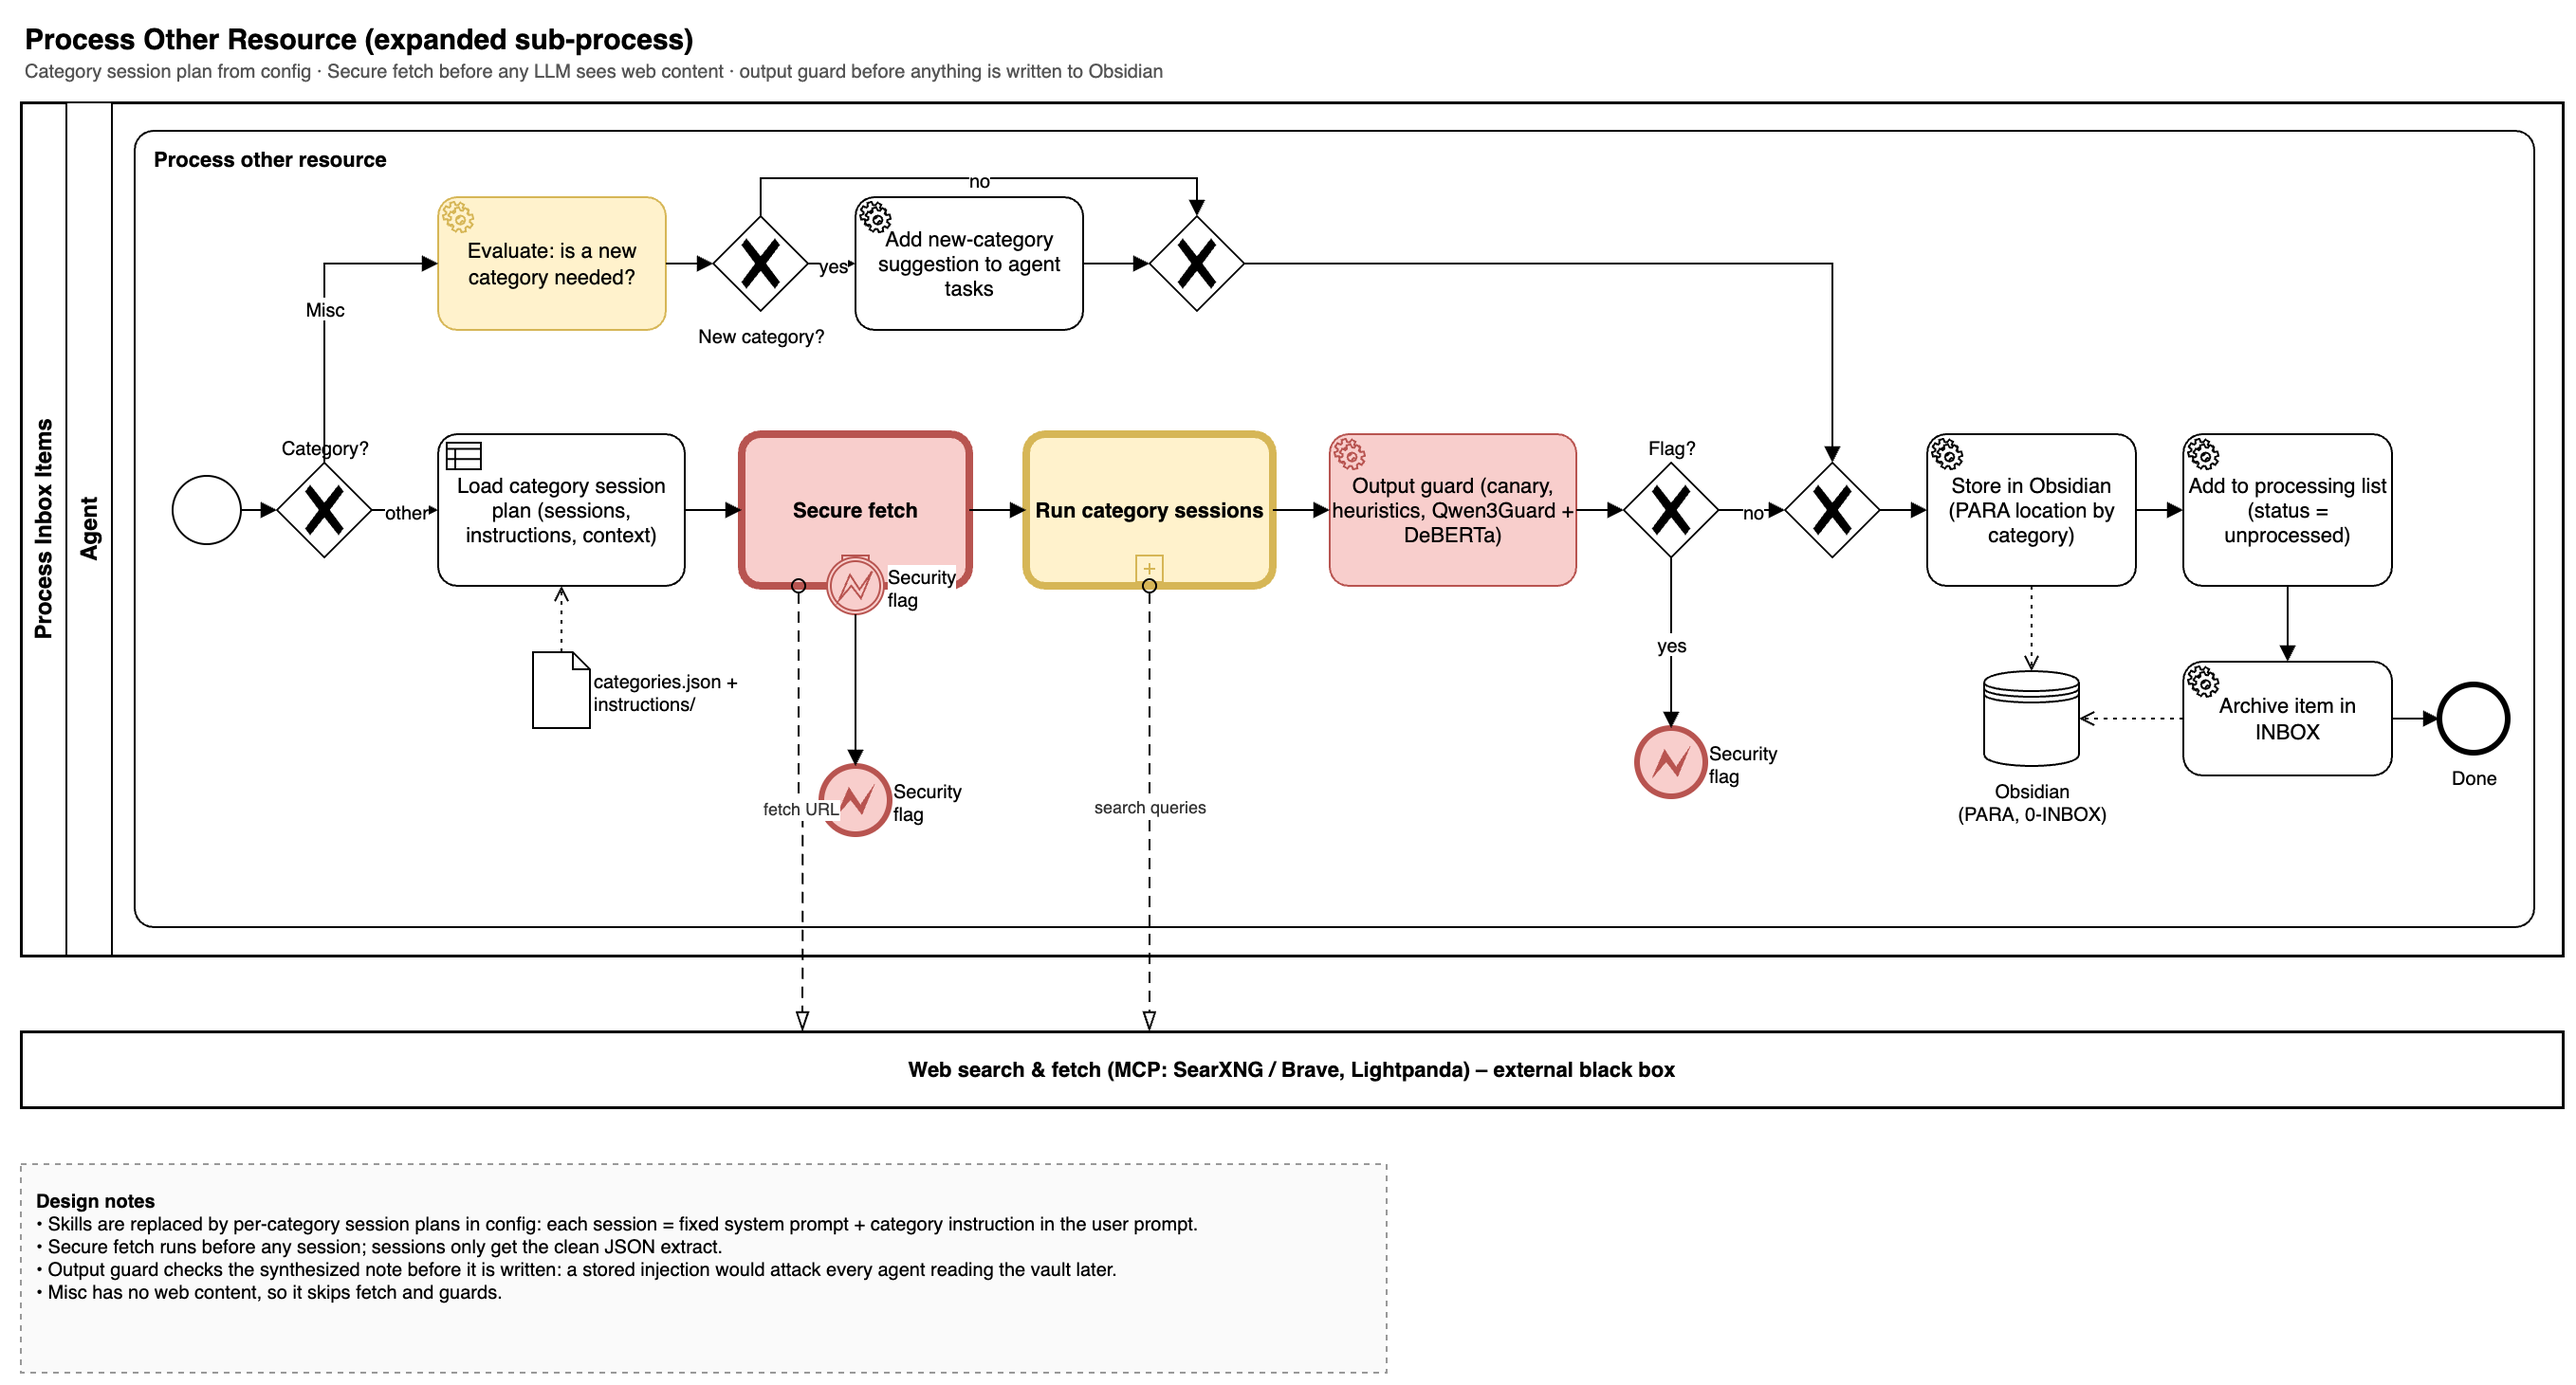
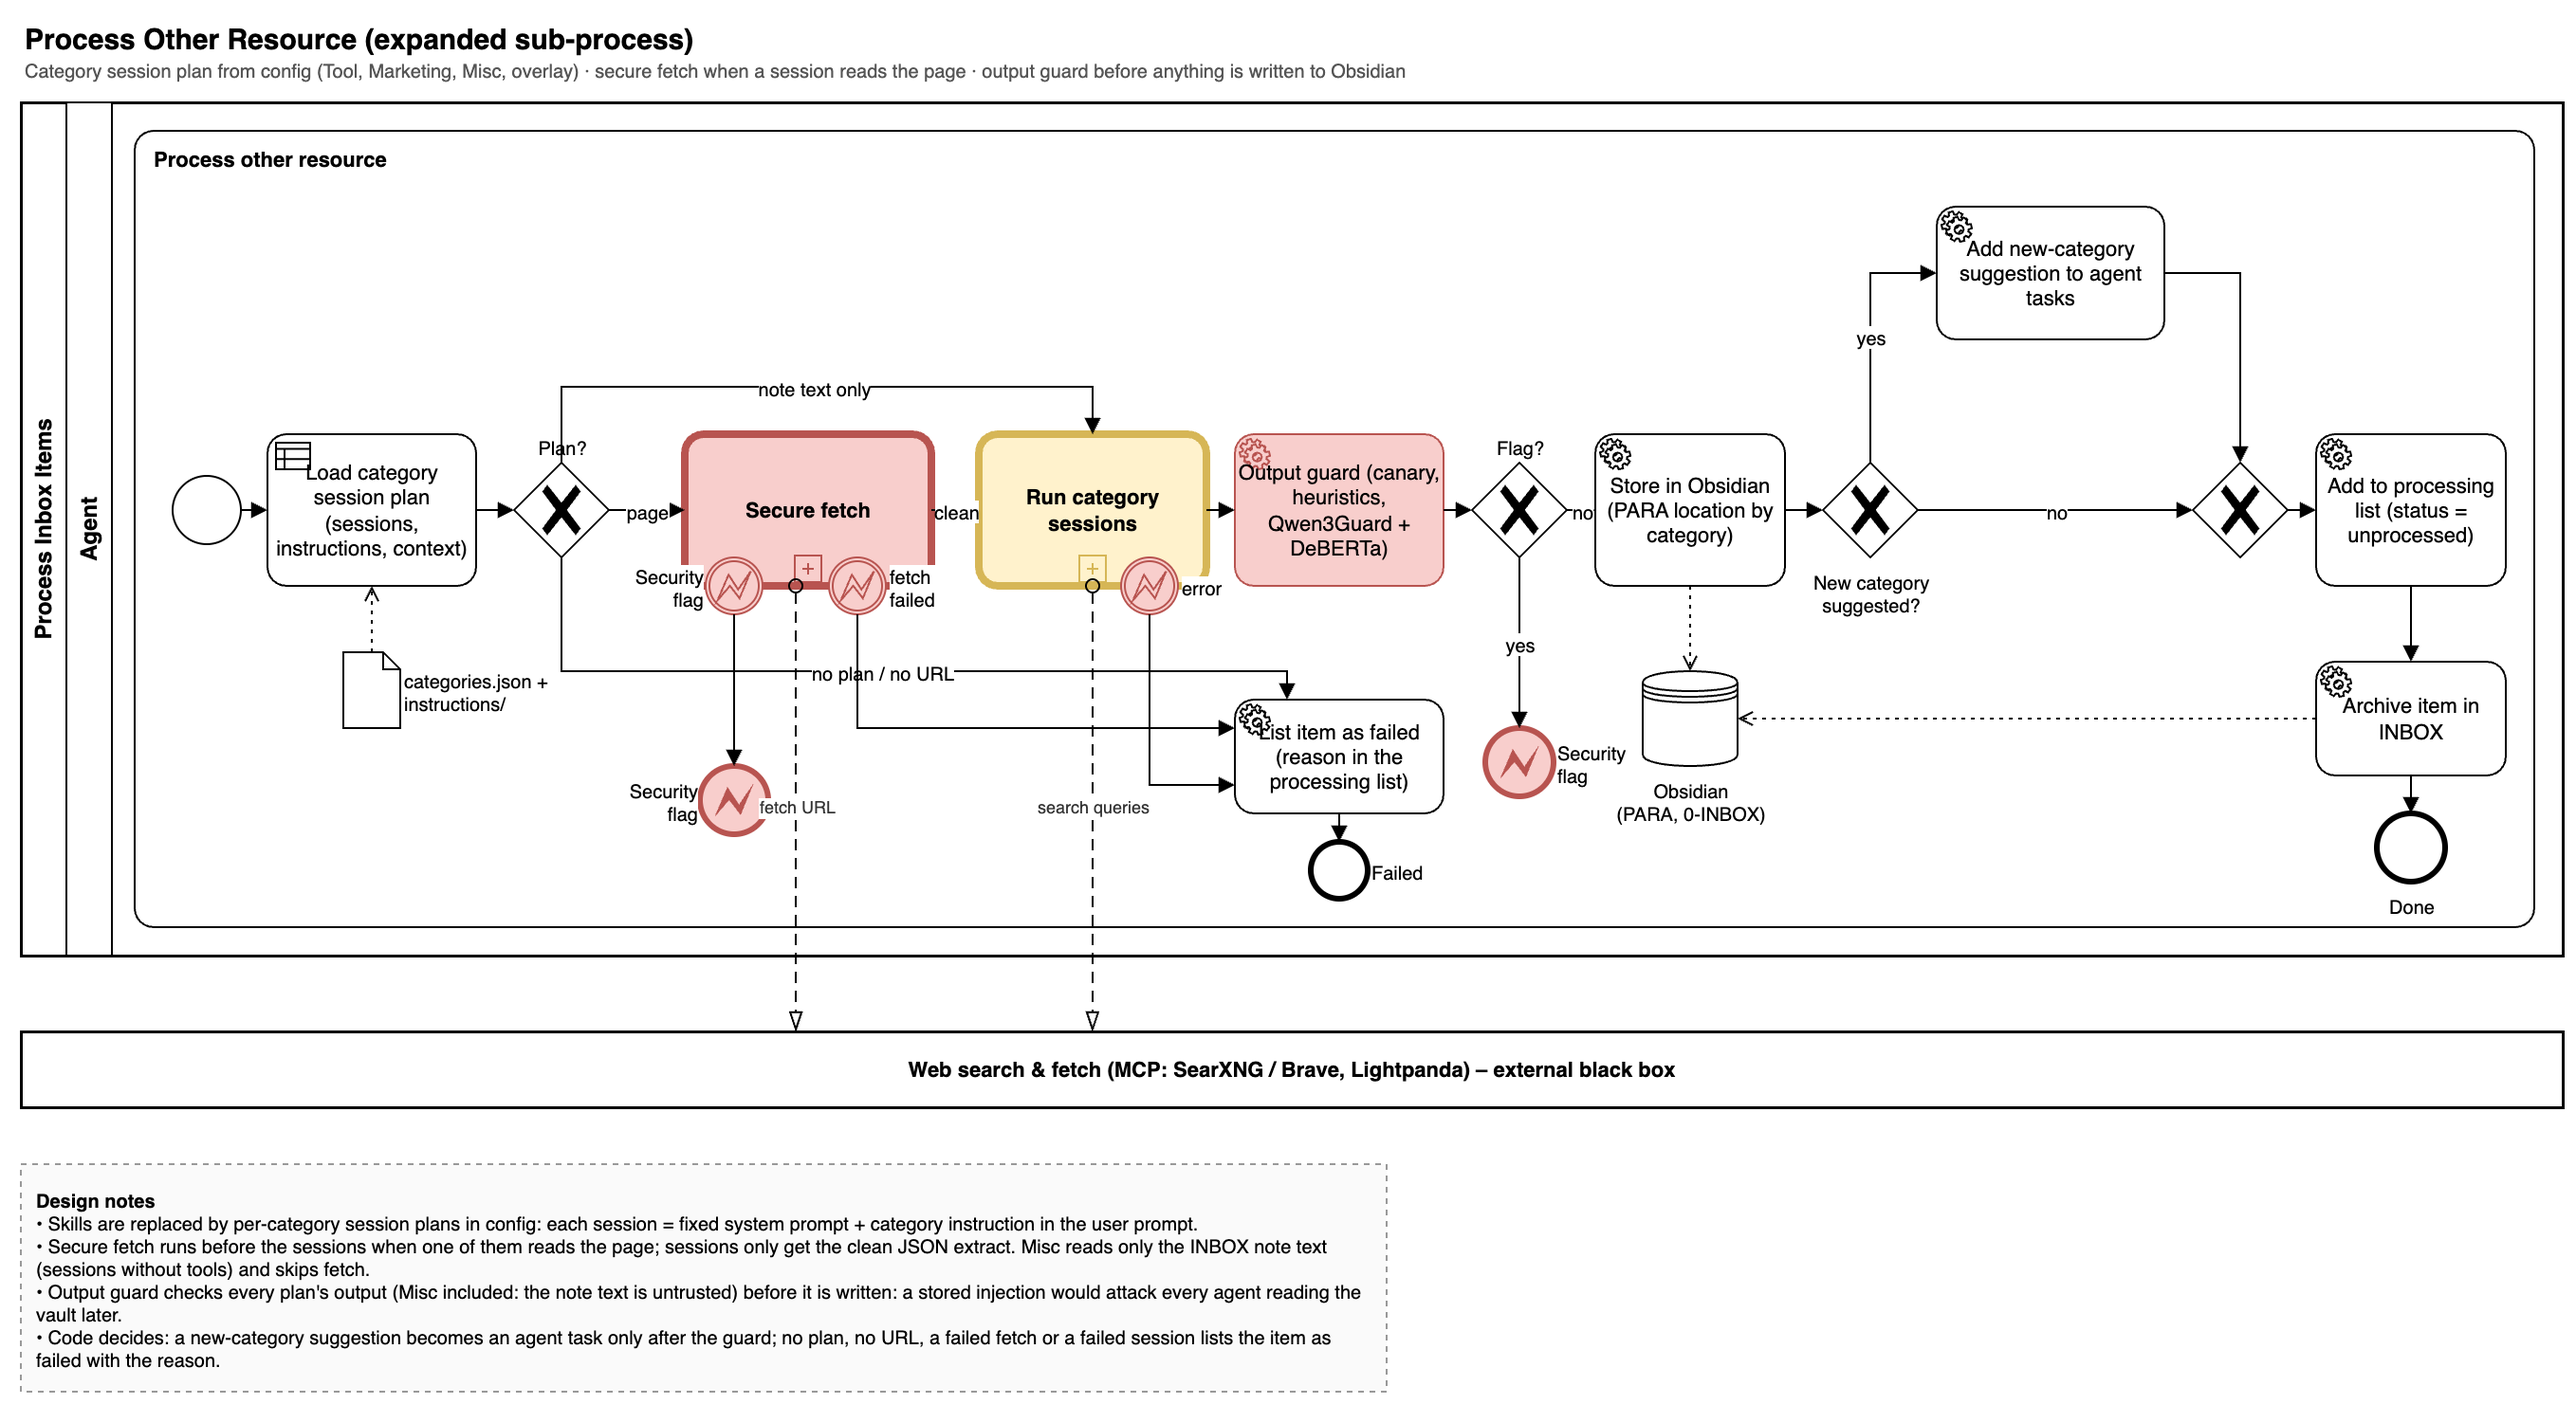
docs(bpmn): Process Other Resource shows the implemented plan flow; tests for session span failure and query guard scope (T001 T009)
The BPMN page showed Misc bypassing the output guard, the new-category
suggestion before the guard, an unconditional secure fetch and no failure
path. Page, PNG and Mermaid now match flow other_resource; its failure
nodes reference the new task. Two regression tests: a failing session's
span carries the model error type (constitution X), and the query guard
blocks only calls to egress servers (FR-002).

diff --git a/tests/unit/steps/test_session_plan_step.py b/tests/unit/steps/test_session_plan_step.py
@@ -359,6 +359,39 @@ def test_regression_without_the_query_guard_the_blocked_query_would_leave(monkey
     assert outcome.ok and searched == ["Project Falcon"]
 
 
+def test_the_query_guard_checks_only_calls_that_leave_the_machine():
+    """FR-002 scope: a local tool (no ``egress``) may carry a blocked name (it never leaves the machine), a
+    web-search call may not."""
+    plan = cat(s("research", ["item.extract"], tools=["t:read", "websearch:search"], output_schema="a_out"))
+    calls = iter(
+        [
+            {"action": "call", "tool": "t:read", "arguments": {"path": "Project Falcon.md"}},
+            {"action": "call", "tool": "websearch:search", "arguments": {"query": "project-falcon"}},
+        ]
+    )
+    read, searched = [], []
+
+    def fn(system, user, schema=None):
+        props = set((schema or {}).get("properties", {}))
+        if props == {"action", "tool", "arguments", "answer"}:
+            return next(calls, {"action": "final", "answer": "ok"})
+        return {"x": "out"}
+
+    tools = FakeTools(
+        {
+            "t:done": lambda path: {},
+            "t:read": lambda path: read.append(path) or READ(path),
+            "websearch:search": lambda query, **kw: searched.append(query) or {},
+        }
+    )
+    outcome, _, _, tracer = run([item()], categories=[plan], model=Model(fn), tools=tools)
+    assert outcome.ok, outcome.error
+    assert "Project Falcon.md" in read and searched == []
+    assert [f for f in tracer.flags if f["detector"] == "query_guard"] == [
+        {"detector": "query_guard", "action": "block", "reason_code": "blocked_term"}
+    ]
+
+
 def test_schema_error_after_retries_fails_the_item_with_a_safe_reason():
     """Edge case: the item is failed with the session and error type; model output and page text stay out."""
 
@@ -367,11 +400,14 @@ def test_schema_error_after_retries_fails_the_item_with_a_safe_reason():
             return SchemaError("model said: SECRET PAGE TEXT")
         return reply_for(system, user, schema)
 
-    outcome, model, tools, _ = run([item()], model=Model(fn))
+    outcome, model, tools, tracer = run([item()], model=Model(fn))
     assert outcome.ok, outcome.error
     out = flat(outcome)["it1"]
     assert out["item"]["processing_status"] == "failed"
     assert out["item"]["failure_reason"] == "session 'b' failed: SchemaError"
+    # constitution X: the failing session's own span names the model error, the others stay clean
+    spans = {sp.name: sp.failed for sp in tracer.of("step") if sp.name.startswith("run_sessions.")}
+    assert spans == {"run_sessions.a": None, "run_sessions.b": "SchemaError"}
     assert "SECRET" not in json.dumps(out)
     assert len(model.calls) == 2  # the synthesizer never ran
     assert not [c for c in tools.calls if c[0] == "t:done"]  # nothing was written

diff --git a/docs/process/process-other-resource.md b/docs/process/process-other-resource.md
@@ -5,19 +5,23 @@ sidebar_position: 4
 
 # Process Other Resource
 
-The category's session plan is loaded from configuration (`categories.json`, flow `other_resource`, step type `session_plan`; [Flows](../flows.md#category-session-plans-spec-010)). Secure fetch runs before any session (only when a session reads the page extract), sessions only see the clean JSON extract, and the output guard (step type `output_guard`, spec 009) checks the synthesized note before anything is written to the vault: the run's canary, active markup, heuristics and the classifier. A flag hands the item to [Handle Security Flag](handle-security-flag.md); nothing of the flagged output is written. Misc items have no web content and only get the new-category evaluation. A new-category suggestion becomes an agent task note, the note is stored in the category's PARA folder, the processing list row is set, and the INBOX note is archived. A failed session, a missing URL or an unreachable page lists the item as failed with the reason (no security flag).
+The category's session plan is loaded from configuration (`categories.json`, flow `other_resource`, step type `session_plan`; [Flows](../flows.md#category-session-plans-spec-010)). Secure fetch runs before any session (only when a session reads the page extract), sessions only see the clean JSON extract, and the output guard (step type `output_guard`, spec 009) checks the synthesized note before anything is written to the vault: the run's canary, active markup, heuristics and the classifier. A flag hands the item to [Handle Security Flag](handle-security-flag.md); nothing of the flagged output is written. Misc items have no web content: their plan is the single new-category evaluation over the INBOX note text (a session without tools), so they skip secure fetch but still pass the output guard. After the guard, code turns a new-category suggestion into an agent task note, the note is stored in the category's PARA folder, the processing list row is set, and the INBOX note is archived. A failed session, a missing URL or an unreachable page lists the item as failed with the reason (no security flag).
 
 ![Process Other Resource](../img/bpmn/process-other-resource.png)
 
 ```mermaid
 flowchart LR
-    s(( )) --> gc{Category?}
-    gc -- misc --> ev[Evaluate: new category needed?] --> gn{New?}
-    gn -- yes --> ac[Add suggestion to agent tasks] --> m1{ }
-    gn -- no --> m1
-    gc -- other --> plan[Load session plan] --> sf[[Secure fetch]] --> rs[[Run category sessions]] --> og[Output guard<br/>canary, heuristics,<br/>Qwen3Guard + DeBERTa] --> g2{Flag?}
+    s(( )) --> plan[Load category session plan] --> gp{Plan?}
+    gp -- page --> sf[[Secure fetch]] -- clean --> rs[[Run category sessions]]
+    gp -- note text only --> rs
+    gp -- no plan / no URL --> fl[List item as failed<br/>reason in the processing list] --> f((Failed))
+    sf -. fetch failed .-> fl
     sf -. security flag .-> x1((Security flag))
+    rs -. error .-> fl
+    rs --> og[Output guard<br/>canary, heuristics,<br/>Qwen3Guard + DeBERTa] --> g2{Flag?}
     g2 -- yes --> x2((Security flag))
-    g2 -- no --> m2{ }
-    m1 --> m2 --> so[Store in Obsidian PARA] --> al[Add to processing list] --> ar[Archive INBOX item] --> e((Done))
+    g2 -- no --> so[Store in Obsidian PARA] --> gn{New category<br/>suggested?}
+    gn -- yes --> ac[Add suggestion to agent tasks] --> m{ }
+    gn -- no --> m
+    m --> al[Add to processing list] --> ar[Archive INBOX item] --> e((Done))
 ```

diff --git a/specs/010-category-sessions/spec.md b/specs/010-category-sessions/spec.md
@@ -2,7 +2,7 @@
 spec_id: 010-category-sessions
 title: Category session plans and Process Other Resource
 status: Completed
-description: Executes per-category session plans from config (Tool with six sessions, Marketing, Misc and overlay categories), stores notes in PARA folders and maintains the processing list.
+description: Executes per-category session plans from config (Tool with five sessions, the sixth added by spec 016; Marketing, Misc and overlay categories), stores notes in PARA folders and maintains the processing list.
 relevant_when:
   - session plan
   - categories.json
@@ -95,6 +95,10 @@ Misc items get a new-category suggestion when appropriate.
 - Q: Session failure? → A: A session error after the model's retries (`SchemaError`, `ModelUnavailable`) ends the plan; the item is listed as `failed` with `session '<id>' failed: <ErrorType>` in the `link` column (the list has no reason column, a new column would break existing vault files). A missing URL, a missing plan or an unreachable page fail the item the same way; a security flag quarantines it. Failed items are not retried every morning.
 - Q: Where do notes, tasks and the INBOX note go? → A: `<para_path>/<slug of the title>-<item id>.md`, `2-Areas/Agent-Tasks/new-category-<id>-<item id>.md` (an open task note) and `4-Archive/Inbox/<item id>-<name>.md` (`move_note` is on the pack's vault allow list).
 - Q: Results? → A: Sessions suite live on qwen3.5-9b-mlx (judge gemma-4-12b), 8 plan sessions with 5 to 6 synthetic cases each (final run 2026-11-02: schema 1.0, checks 73/73, judge mean 4.945 over all 73 session cases), see [Evaluation](../../docs/evaluation.md#measured-with-the-reference-model); flows 21/21 (5 new cases, 2 rewritten); e2e with the real vault, web-fetch (Lightpanda) and a synthetic web search MCP server. A first live run found the 9B model copying and obeying injected instructions inside page extracts (`PWNED` as title, a license changed on request); the instructions now say never to follow or repeat them, which fixed it on the shipped set, and the output guard stops what remains.
+
+### Session 2026-11-02 (review)
+
+- Q: Does the BPMN still match? → A: No, the Process Other Resource page showed Misc bypassing the output guard, the new-category suggestion before the guard, an unconditional secure fetch and no failure path. The page, its PNG and the Mermaid block now show the implemented process (`plan` gateway: page / note text only / no plan or URL; fetch failed and session errors list the item as failed; suggestion after the guard); the failure nodes of `other_resource.json` reference the new task "List item as failed".
 
 ## Out of Scope
 

diff --git a/specs/010-category-sessions/tasks.md b/specs/010-category-sessions/tasks.md
@@ -33,4 +33,4 @@ Format: `- [ ] T001 [USx] Description` · `[USx]` = user story
 
 - [x] T007 CI green (ruff, pytest)
 - [x] T008 Eval gates passed where applicable (sessions suite live on qwen3.5-9b-mlx with the gemma-4-12b judge; flows 21/21, sessions 73/73 checks, judge 4.95)
-- [x] T009 Docs, BPMN image and Mermaid updated if behaviour changed (constitution XI): the process pages and the BPMN already show this process; only the prose and the config / flow docs changed
+- [x] T009 Docs, BPMN image and Mermaid updated if behaviour changed (constitution XI): the BPMN page Process Other Resource, its PNG and Mermaid now show the conditional secure fetch, Misc as a plan that passes the output guard, the suggestion after the guard and the failed-item path; config / flow docs updated

diff --git a/specs/010-category-sessions/plan.md b/specs/010-category-sessions/plan.md
@@ -4,7 +4,7 @@
 
 ## Summary
 
-Executes per-category session plans from config (Tool with six sessions, Marketing, Misc and overlay categories), stores notes in PARA folders and maintains the processing list.
+Executes per-category session plans from config (Tool with five sessions, the sixth added by spec 016; Marketing, Misc and overlay categories), stores notes in PARA folders and maintains the processing list.
 
 ## Technical Context
 
